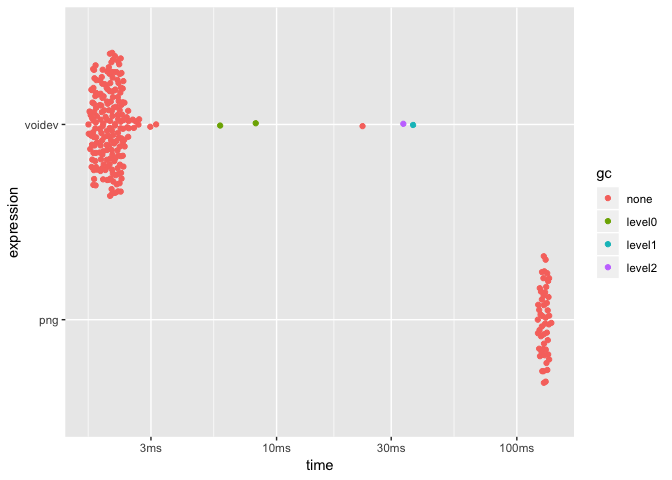
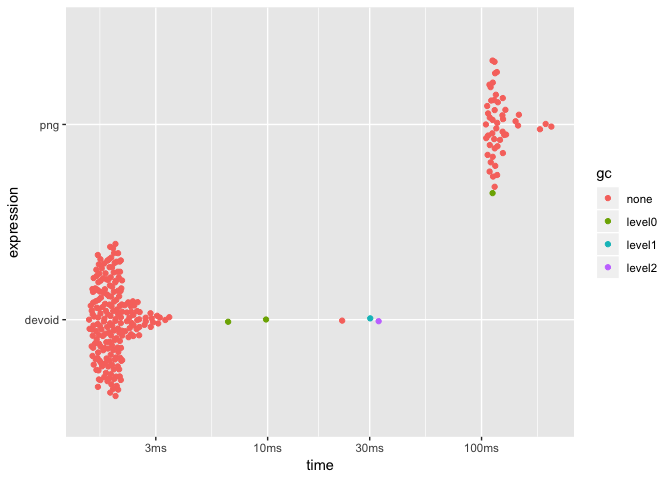
re-knit readme

diff --git a/README.md b/README.md
@@ -1,7 +1,7 @@
 
 <!-- README.md is generated from README.Rmd. Please edit that file -->
 
-# voidev
+# devoid
 
 This package provides a graphic device that does no operations. This
 makes it suitable for benchmarking functions that produce graphics as it
@@ -13,20 +13,20 @@ than calling `pdf()` with a temporary file connection.
 
 ## Installation
 
-You can install `voidev` with the remotes package:
+You can install `devoid` with the remotes package:
 
 ``` r
 # install.packages('remotes')
-remotes::install_github('r-lib/voidev')
+remotes::install_github('r-lib/devoid')
 ```
 
 ## Example
 
-`voidev` provides a single function `void_dev()` which is used much like
+`devoid` provides a single function `void_dev()` which is used much like
 any other device:
 
 ``` r
-library(voidev)
+library(devoid)
 
 void_dev()
 plot(1:10, 1:10)
@@ -53,7 +53,7 @@ png_plot <- function() {
   NULL
 }
 
-res <- bench::mark(voidev = void_plot(), png = png_plot(), min_iterations = 50)
+res <- bench::mark(devoid = void_plot(), png = png_plot(), min_iterations = 50)
 plot(res)
 ```
 
